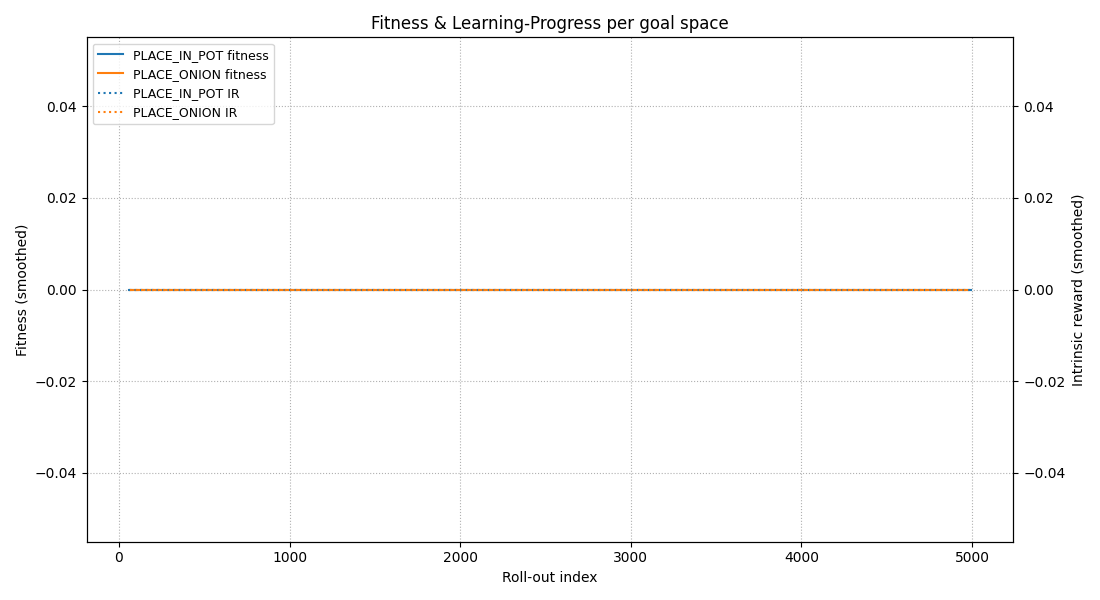
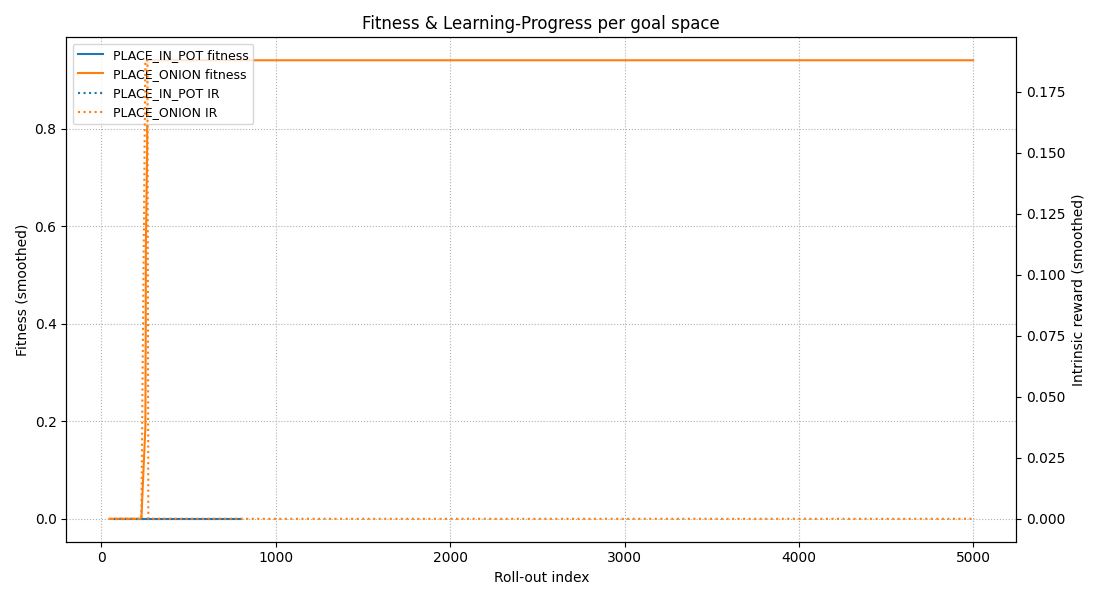
Partly fixed onion bug

diff --git a/IMGEP_agent/agent/agent.py b/IMGEP_agent/agent/agent.py
@@ -8,6 +8,7 @@ from IMGEP_agent.agent.helpers.get_plan import get_plan
 from IMGEP_agent.agent.knowledge_base import KnowledgeBase, RolloutRecord
 from IMGEP_agent.agent.neuro_policy.high_level_actions import HighLevelActions, get_motion_goals
 from IMGEP_agent.agent.neuro_policy.neuro_policy import GoalSpaceNeuroPolicy, get_neuro_policy
+from IMGEP_agent.hyper_parameters import EXPLOIT_PROB
 from overcooked_ai_py.agents.agent import Agent
 from overcooked_ai_py.mdp.actions import Action
 from overcooked_ai_py.mdp.overcooked_env import OvercookedEnv
@@ -61,6 +62,7 @@ class IMGEPAgent(Agent):
         self.rollout_fitness = 0.0
         self.previous_state = None
         reset_goal_spaces(self.goal_spaces)
+        exploit = random.random() < EXPLOIT_PROB
         chosen_goal, exploit = select_goal(self.goal_space_emas, other_goal_space_emas=other_goal_space_emas,
                                            other_kb=other_kb, goal_spaces=self.goal_spaces, own_kb=self.kb,
                                            exploit=exploit)
@@ -135,14 +137,14 @@ class IMGEPAgent(Agent):
         self.previous_state = state
         return action
 
-    def finish_rollout(self, info, partner_goal_id):
+    def finish_rollout(self, info, partner_goal_id, partner_fitness: float = 0.0):
         # intrinsic reward = Δ fitness vs nearest prior experiment
         goal = self.goal_space_neuro_policies[0].goal  # The first goal is the main goal space
         neuro_policy = self.goal_space_neuro_policies[0].neuro_policy
         exploit = self.goal_space_neuro_policies[0].exploit
         prev_record = self.kb.nearest(goal=goal, k=1, exploit=exploit)
         prev_f = prev_record[0].fitness if prev_record else 0.0
-
+        # self.rollout_fitness += (partner_fitness / 10) # 10% of the partner's fitness is added to the rollout fitness
         fitness_difference = self.rollout_fitness - prev_f
         shared_reward = info['episode']['ep_shaped_r'] + info['episode']['ep_sparse_r']
         prev_shared_reward = prev_record[0].shared_reward if prev_record else 0.0

diff --git a/IMGEP_agent/agent/neuro_policy/high_level_actions.py b/IMGEP_agent/agent/neuro_policy/high_level_actions.py
@@ -5,7 +5,7 @@ from overcooked_ai_py.planning.planners import MediumLevelActionManager
 
 
 class HighLevelActions(IntEnum):
-    GO_ONION, GO_TOMATO, GO_DISH, PUT_ONION, PUT_TOMATO, GO_READY_POT, GO_SERVE, START_COOKING, GO_COUNTER, WAIT = range(
+    GO_ONION, GO_DISH, PUT_ONION, PUT_TOMATO, GO_READY_POT, GO_SERVE, START_COOKING, GO_COUNTER, WAIT, ONION_FROM_DISPENSER = range(
         10)
 
 
@@ -18,8 +18,8 @@ def get_motion_goals(mlam: MediumLevelActionManager, mdp: OvercookedGridworld,
     match high_level_action:
         case HighLevelActions.GO_ONION:
             return mlam.pickup_onion_actions(counter_objects)
-        case HighLevelActions.GO_TOMATO:
-            return mlam.pickup_tomato_actions(counter_objects)
+        case HighLevelActions.ONION_FROM_DISPENSER:
+            return mlam.pickup_onion_actions(counter_objects, only_use_dispensers=True)
         case HighLevelActions.GO_DISH:
             return mlam.pickup_dish_actions(counter_objects)
         case HighLevelActions.PUT_ONION:

diff --git a/IMGEP_agent/agent/goals/goal_policy.py b/IMGEP_agent/agent/goals/goal_policy.py
@@ -82,7 +82,7 @@ def select_goal(
             # distribution, so that more motivated goal spaces are more likely
             # to be selected.
             # Convert each EMA to a strictly-positive weight
-            min_prob = 0.05
+            min_prob = 0.5
             temperature = 0.5  # controls the "sharpness" of the distribution
             weights = [(itm.ema + min_prob) ** temperature for itm in own_goal_space_emas]
             chosen_goal_space_ema = random.choices(own_goal_space_emas, weights=weights, k=1)[0]

diff --git a/IMGEP_agent/run_rollout.py b/IMGEP_agent/run_rollout.py
@@ -54,7 +54,8 @@ for roll in range(ROLLOUTS):
 
     # -------- finish roll-out bookkeeping -------------------------------
     for idx, ag in enumerate(agents):
-        ag.finish_rollout(info, agents[1 - idx].goal_space_neuro_policies[0].goal.goal_id)
+        ag.finish_rollout(info, agents[1 - idx].goal_space_neuro_policies[0].goal.goal_id,
+                          agents[1 - idx].rollout_fitness)
 
     if roll == ROLLOUTS - 1:
         create_gif(ep_states, mdp, roll, True)
